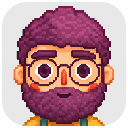
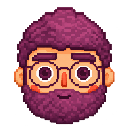
Remove background from status portrait

diff --git a/scripts/generate-app-icon.cpp b/scripts/generate-app-icon.cpp
@@ -39,13 +39,15 @@ static bool writeIco(const QImage &image, const QString &path) {
 
 int main(int argc, char **argv) {
     QCoreApplication app(argc, argv);
-    if (argc != 6) {
-        qWarning("Usage: petdesk_icon_generator artwork.png app.png app.iconset status.png app.ico");
+    if (argc != 7) {
+        qWarning("Usage: petdesk_icon_generator artwork.png status-artwork.png app.png app.iconset status.png app.ico");
         return 2;
     }
     const QImage artwork(QString::fromLocal8Bit(argv[1]));
-    if (artwork.isNull() || artwork.width() != artwork.height()) {
-        qWarning("The source artwork must be a square image");
+    const QImage statusArtwork(QString::fromLocal8Bit(argv[2]));
+    if (artwork.isNull() || artwork.width() != artwork.height() || statusArtwork.isNull() ||
+        statusArtwork.width() != statusArtwork.height() || !statusArtwork.hasAlphaChannel()) {
+        qWarning("The source images must be square, and the status artwork must have an alpha channel");
         return 1;
     }
     QImage master(1024, 1024, QImage::Format_ARGB32_Premultiplied);
@@ -57,9 +59,9 @@ int main(int argc, char **argv) {
     painter.setClipPath(tile);
     painter.drawImage(QRectF(64, 64, 896, 896), artwork);
     painter.end();
-    if (!master.save(QString::fromLocal8Bit(argv[2]))) return 1;
+    if (!master.save(QString::fromLocal8Bit(argv[3]))) return 1;
 
-    const QDir iconset(QString::fromLocal8Bit(argv[3]));
+    const QDir iconset(QString::fromLocal8Bit(argv[4]));
     if (!QDir().mkpath(iconset.path())) return 1;
     for (int size : {16, 32, 128, 256, 512}) for (int scale : {1, 2}) {
         const QString name = QString("icon_%1x%1%2.png").arg(size).arg(scale == 2 ? "@2x" : "");
@@ -67,17 +69,15 @@ int main(int argc, char **argv) {
                  .save(iconset.filePath(name))) return 1;
     }
 
-    // A closer crop of the same portrait stays recognizable in the small status area.
+    // Fit the transparent portrait into the small status area without a background tile.
     QImage status(128, 128, QImage::Format_ARGB32_Premultiplied);
     status.fill(Qt::transparent);
     QPainter statusPainter(&status);
     statusPainter.setRenderHints(QPainter::Antialiasing | QPainter::SmoothPixmapTransform);
-    QPainterPath statusShape;
-    statusShape.addRoundedRect(QRectF(2, 2, 124, 124), 25, 25);
-    statusPainter.setClipPath(statusShape);
-    const qreal unit = artwork.width() / 1254.0;
-    statusPainter.drawImage(QRectF(2, 2, 124, 124), artwork, QRectF(255 * unit, 100 * unit, 745 * unit, 745 * unit));
+    const qreal unit = statusArtwork.width() / 1254.0;
+    statusPainter.drawImage(QRectF(2, 2, 124, 124), statusArtwork,
+                            QRectF(125 * unit, 125 * unit, 1000 * unit, 1000 * unit));
     statusPainter.end();
-    if (!status.save(QString::fromLocal8Bit(argv[4]))) return 1;
-    return writeIco(master, QString::fromLocal8Bit(argv[5])) ? 0 : 1;
+    if (!status.save(QString::fromLocal8Bit(argv[5]))) return 1;
+    return writeIco(master, QString::fromLocal8Bit(argv[6])) ? 0 : 1;
 }

diff --git a/tests/statusentry_qt_tests.cpp b/tests/statusentry_qt_tests.cpp
@@ -1,6 +1,7 @@
 #include "statusentry.h"
 #include <QAction>
 #include <QApplication>
+#include <QImage>
 #include <QMenu>
 #include <QPixmap>
 #include <QSignalSpy>
@@ -11,6 +12,14 @@ using namespace petdesk;
 class StatusEntryQtTests : public QObject {
     Q_OBJECT
 private slots:
+    void statusPortraitHasNoBackgroundTile() {
+        const QImage portrait(QStringLiteral(":/assets/PetDesk-status.png"));
+        QVERIFY(!portrait.isNull());
+        QCOMPARE(portrait.size(), QSize(128, 128));
+        for (const QPoint &point : {QPoint(16, 16), QPoint(112, 16), QPoint(16, 112), QPoint(112, 112)})
+            QCOMPARE(portrait.pixelColor(point).alpha(), 0);
+        QVERIFY(portrait.pixelColor(64, 64).alpha() > 0);
+    }
     void clickingOpensTheManagerAndContextDoesNotQuit() {
         QAction open(QStringLiteral("打开控制台"), this), importPet(QStringLiteral("导入桌宠"), this);
         QAction visibility(QStringLiteral("显示桌宠"), this), pause(QStringLiteral("暂停动画"), this);

diff --git a/README.md b/README.md
@@ -79,12 +79,12 @@ bash scripts/package-macos.sh
 
 ```sh
 cmake --build build --target petdesk_icon_generator
-build/petdesk_icon_generator assets/PetDesk-artwork.png assets/PetDesk.png build/PetDesk.iconset assets/PetDesk-status.png assets/PetDesk.ico
+build/petdesk_icon_generator assets/PetDesk-artwork.png assets/PetDesk-status-artwork.png assets/PetDesk.png build/PetDesk.iconset assets/PetDesk-status.png assets/PetDesk.ico
 iconutil -c icns build/PetDesk.iconset -o assets/PetDesk.icns
 ```
 
 ## 验证与范围
 
-导入、动作、窗口生命周期和配置测试覆盖空库入口、多宠物独立设置、旧配置迁移、移出恢复、重复导入、再次打开控制台，以及原有动画与注视契约。图标和 Mac 验证见 `qa/verification-0.4.4.json`；此前版本的验证记录见 `qa/verification-0.4.3.json`、`qa/verification-0.4.2.json`、`qa/verification-0.4.1.json`、`qa/verification-0.4.0.json` 和 `qa/verification.json`。
+导入、动作、窗口生命周期和配置测试覆盖空库入口、多宠物独立设置、旧配置迁移、移出恢复、重复导入、再次打开控制台，以及原有动画与注视契约。图标和 Mac 验证见 `qa/verification-0.4.5.json`；此前版本的验证记录见 `qa/verification-0.4.4.json`、`qa/verification-0.4.3.json`、`qa/verification-0.4.2.json`、`qa/verification-0.4.1.json`、`qa/verification-0.4.0.json` 和 `qa/verification.json`。
 
 播放器使用 QWidget + QPainter，不创建全屏画布。没有商店、账号、联网服务、插件运行时或 Agent 接入；本版的启动偏好指再次打开应用，不包含登录自启动。Qt 与依赖许可见 `THIRD_PARTY_NOTICES.txt`。Mac 原型为本地 ad-hoc 签名，尚未进行 Apple 公证。
